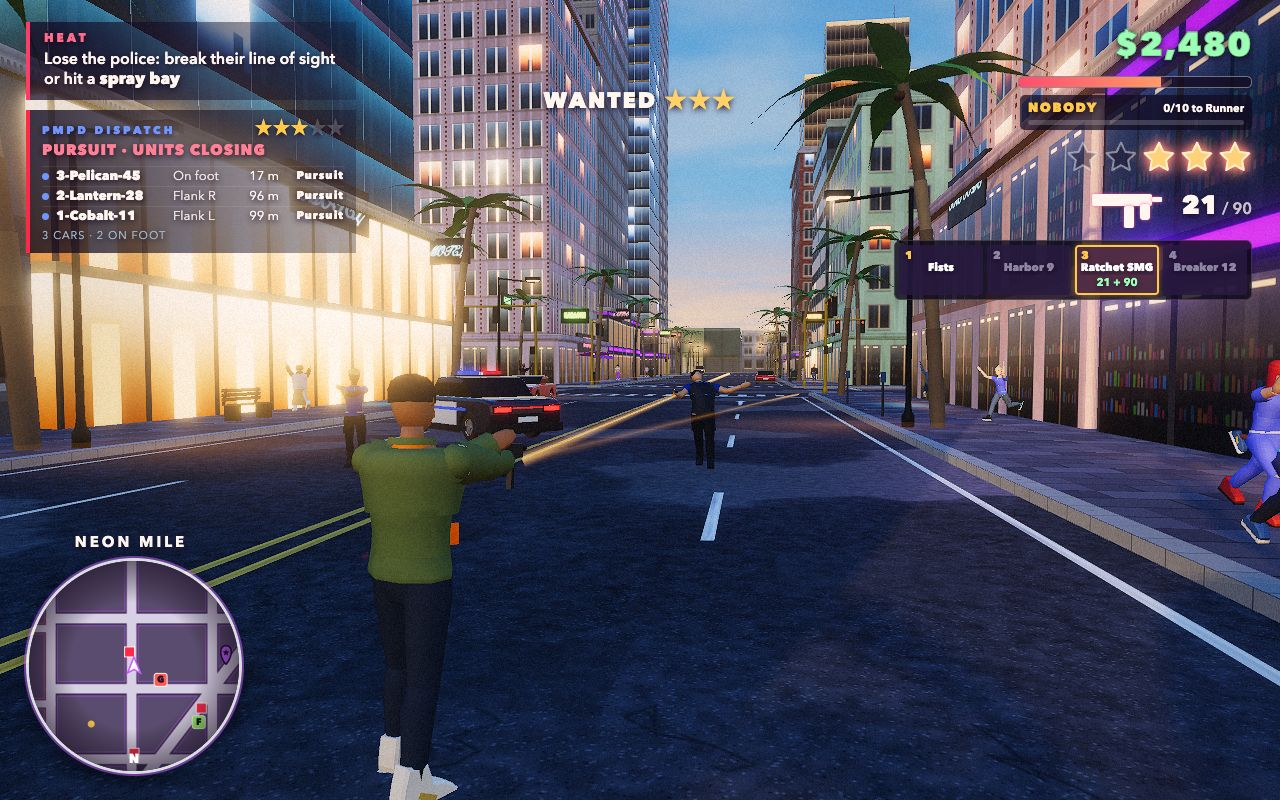
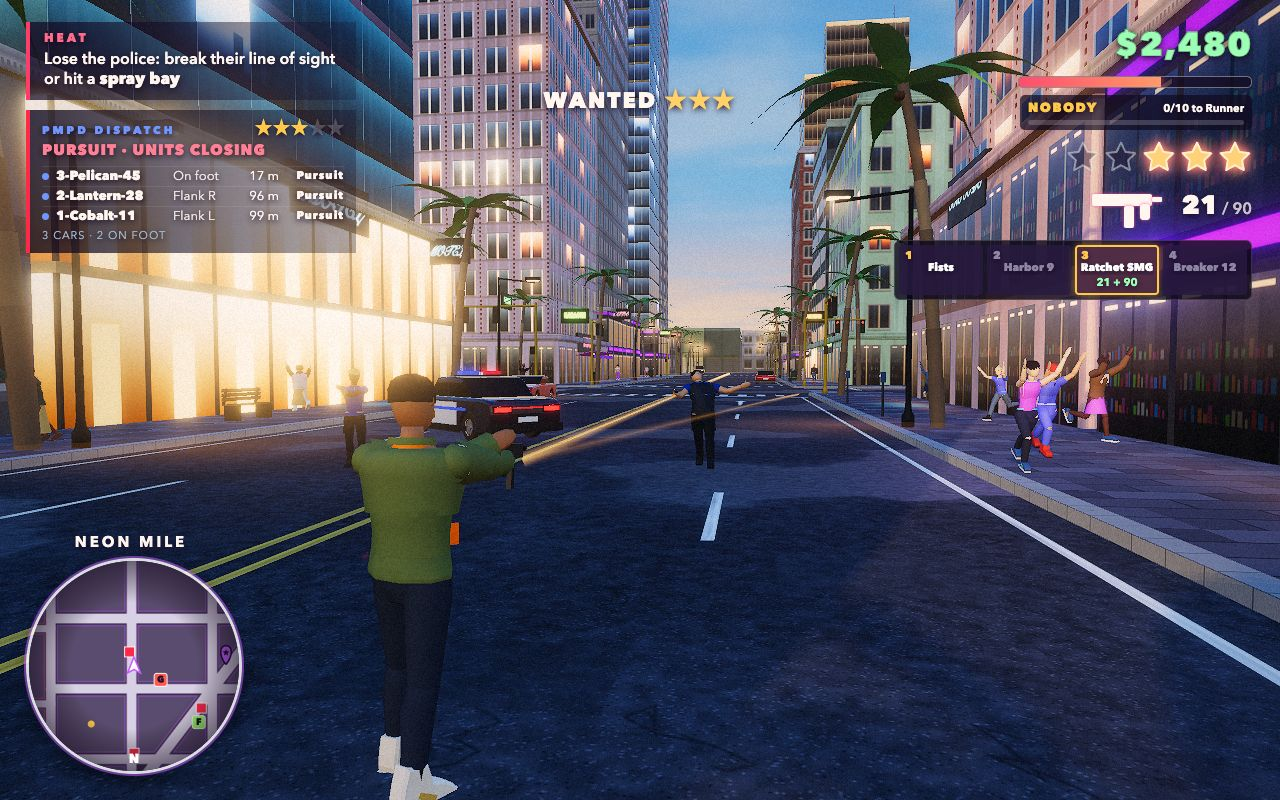
feat(shots): the third screenshot is the Gilded Tide heist at the vault door instead of the shop menu
Ilo on foot with the SMG up beside the cut vault door, the orange van at the kerb, two cruisers slewed across
the road with officers out, bystanders fleeing and filming, golden light, the mission panel, PMPD dispatch,
stars, weapon bar and minimap all in frame. screenshots/3-heist.jpg replaces 3-shop.jpg; the shop scene stays
as a debug scene behind ?shot=shop.

Changed region(s): [[0.7812, 0.4375, 0.9062, 0.5938], [0.9375, 0.4375, 1.0, 0.6875], [0.0312, 0.5, 0.0625, 0.5625]]

diff --git a/game/src/shotsheist.js b/game/src/shotsheist.js
@@ -1,0 +1,118 @@
+// Heist screenshot scene: Gilded Tide at the Aurelio vault door, the lance still glowing, as the police box the lane.
+import { PART } from './palette.js';
+import { STORY_MISSIONS } from './missions/story/index.js';
+
+const HEIST = 'gilded-tide';
+const ESCAPE_STAGE = 3;
+const STEPS = 90;
+const VAN_PAINT = '#ff6f3c';
+
+/** Holds the given keys from step `from` onwards. */
+function holding(codes, from) {
+  return (index) => ({
+    pressed: (code) => index === from && codes.includes(code),
+    down: (...list) => index >= from && list.some((code) => codes.includes(code)),
+    axis: () => 0,
+    mouse: { dx: 0, dy: 0 },
+  });
+}
+
+/** Lane frame: u runs out from the vault wall across the road, t runs along the kerb. */
+function laneFrame(place) {
+  const ux = place.outX;
+  const uz = place.outZ;
+  const at = (u, t) => ({ x: place.x + ux * u - uz * t, z: place.z + uz * u + ux * t });
+  const facing = (from, to) => Math.atan2(to.x - from.x, to.z - from.z);
+  return { at, facing };
+}
+
+export const HEIST_SHOTS = {
+  // Stage 4 of 5: Ilo steps back from the cut door with the SMG up, the orange van loaded at the kerb, two cruisers
+  // slewed across the road with their officers out, and the people on the pavement running from the shooting.
+  heist: {
+    time: 'golden',
+    steps: STEPS,
+    focus: [336, 0, -74],
+    stage(game) {
+      const { police } = game.action;
+      game.missions.progress.done.push(...STORY_MISSIONS.map((def) => def.id).filter((id) => id !== HEIST));
+      game.missions.jump(HEIST, ESCAPE_STAGE);
+      const lane = laneFrame(game.missions.places.get('aurelio-lane'));
+      const { at, facing } = lane;
+      const van = game.missions.state.props.cars['linen-van'].car;
+      const vanSpot = at(4.8, 2.5);
+      van.position.set(vanSpot.x, 0, vanSpot.z);
+      van.heading = facing(vanSpot, at(4.8, 8));
+      game.fleet.setColour(van, VAN_PAINT);
+      const arsenal = game.player.state.arsenal;
+      arsenal.owned.pistol = { clip: 12, reserve: 36 };
+      arsenal.owned.smg = { clip: 30, reserve: 120 };
+      arsenal.current = 'smg';
+      Object.assign(game.player.state.vitals, { health: 84, armour: 46 });
+      game.missions.progress.respect = 172;
+      const ilo = at(1.5, -1);
+      const threat = at(4.5, -9);
+      game.player.placeOnFoot(ilo.x, ilo.z, facing(ilo, threat));
+      police.setStars(4);
+      for (const [u, t, turn] of [[6, -10, 0.9], [3.5, -13, 0.4]]) {
+        const spot = at(u, t);
+        const unit = police.units.adopt(game.fleet.reuse('cruiser', '#16203a'), spot.x, spot.z,
+          facing(spot, ilo) + turn);
+        Object.assign(unit.vehicle, { vx: 0, vz: 0 });
+        unit.officersOut = true;
+      }
+      for (const [u, t, weapon] of [[4, -6, 'pistol'], [2.5, -8.5, 'shotgun']]) {
+        const spot = at(u, t);
+        police.officers.deploy(spot.x, spot.z, facing(spot, ilo), weapon).cooldown = 0.2;
+      }
+      // Traffic and parked cars leave the stretch between the camera and the wall; the rest of the street keeps its.
+      const keep = new Set([van]);
+      const clearLane = () => {
+        for (const car of game.fleet.cars) {
+          if (keep.has(car) || car.police) continue;
+          for (let t = -16; t <= 12; t += 4) {
+            const p = at(6, t);
+            if (Math.hypot(car.position.x - p.x, car.position.z - p.z) < 8) car.visible = false;
+          }
+        }
+      };
+      clearLane();
+      // Bystanders: four running up the pavement away from the cruisers, one cowering by the van, two filming.
+      const extras = [[0.2, -3, 'flee'], [-0.3, 1.5, 'flee'], [0.6, 4, 'flee'], [1.2, 6.5, 'flee'],
+        [3, 5.5, 'cower'], [-0.4, 9, 'film'], [9.5, 3, 'film']];
+      const run = facing(at(0, 0), at(0, 10));
+      extras.forEach(([u, t, kind], index) => {
+        const ped = game.pedestrians.peds[index];
+        const spot = at(u, t);
+        ped.character.position.set(spot.x, game.ground.surfaceAt(spot.x, spot.z).height, spot.z);
+        const angle = kind === 'film' ? facing(spot, ilo) : run;
+        ped.react = { state: kind, timer: 9, dirX: Math.sin(angle), dirZ: Math.cos(angle), fromX: threat.x,
+          fromZ: threat.z };
+        ped.character.held = kind === 'film' ? 'phone' : null;
+      });
+      game.cameraMode = 'manual';
+      return {
+        input: holding(['KeyF'], 40),
+        afterStep(index) {
+          if (index === STEPS - 2) {
+            clearLane();
+            // The cover already carries a call card; here the street gets the bottom of the frame.
+            game.dialogue.clear();
+          }
+          if (index !== STEPS - 1) return;
+          const hand = game.ilo.joints[PART.handR].elements;
+          const aim = { x: Math.sin(game.ilo.heading), y: 0.02, z: Math.cos(game.ilo.heading) };
+          game.action.effects.muzzle({ x: hand[12] + aim.x * 0.45, y: hand[13] + 0.05, z: hand[14] + aim.z * 0.45 },
+            aim);
+          // Across the road, looking back at the wall: door and Ilo left of centre, the cruisers to the right.
+          const eye = at(14, -3.5);
+          const look = at(0, -4.5);
+          game.camera.position.set(eye.x, 2.7, eye.z);
+          game.camera.lookAt(look.x, 2.1, look.z);
+          game.camera.fov = 50;
+          game.camera.updateProjectionMatrix();
+        },
+      };
+    },
+  },
+};

diff --git a/game/src/shots.js b/game/src/shots.js
@@ -1,6 +1,7 @@
 // Deterministic screenshot scenes behind ?shot=<name>&seed=N: each sets time of day, actors and camera.
 import { ACTION_SHOTS } from './shotsaction.js';
 import { SHOP_SHOTS } from './shotsshop.js';
+import { HEIST_SHOTS } from './shotsheist.js';
 import { STORY_MISSIONS } from './missions/story/index.js';
 
 const CLUTTER = ['bin', 'news', 'hydrant', 'bench', 'meter', 'bollard', 'shelter', 'planter', 'palm', 'palmTall',
@@ -183,5 +184,5 @@ const MAP_SHOT = {
 
 export function getShot(name) {
   if (name === 'map') return MAP_SHOT;
-  return SHOTS[name] ?? ACTION_SHOTS[name] ?? SHOP_SHOTS[name] ?? null;
+  return SHOTS[name] ?? ACTION_SHOTS[name] ?? HEIST_SHOTS[name] ?? SHOP_SHOTS[name] ?? null;
 }
